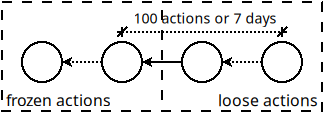
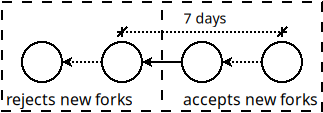
...

Changed region(s): [[0.0, 0.823, 0.4334, 0.9823], [0.5573, 0.823, 0.9907, 0.9558], [0.4025, 0.1062, 0.8669, 0.2389]]

diff --git a/main.tex b/main.tex
@@ -167,9 +167,9 @@ Bitcoin's double-spending).
 As a main limitation, since partitions are unbounded, forums are subject to
 \emph{long-range attacks}, similarly to \emph{proof-of-stake}
 systems~\cite{pos.weak}.
-As a countermeasure, branches older than a threshold are rejected by the
-network (100 actions or 7 days), while newer malicious branches may require
-manual intervention, but of only a few honest members.
+As a countermeasure, branches older than a threshold (7 days) are rejected by
+the network, while newer malicious branches may require manual intervention,
+but of only a few honest members.
 
 Regarding performance, forum graphs are ever-growing data structures that carry
 considerable metadata overhead.
@@ -937,14 +937,14 @@ Next, we discuss the threats and countermeasures under unbounded partitions:
     how an isolated branch mints \reps unchecked.
 \item [\S\ref{sec.design.partitions.hardforks}]
     Hard Forks:
-    how a settling window bounds the damage.
+    how a fork-age limit bounds the damage.
 \end{description}
 
 \subsubsection{Reputation Farming}
 \label{sec.design.partitions.farming}
 
 Consider a malicious scenario in which member $c$ in Figure~\ref{fig.reps}.A
-intentionally disconnects from the network for weeks to cultivate fake
+intentionally disconnects from the network for days to cultivate fake
 identities $x$ and $y$ that accumulate \reps from junk posts (\R{1.b}).
 %
 When merging, these fake members would become legitimate and take over the
@@ -1009,34 +1009,34 @@ local forum.
 \centering
 \includegraphics[width=0.3\textwidth]{hard.png}
 \caption{
-    Settled local branch with frozen actions.
+    Settled local branch rejecting forks.
 }
 \label{fig.hard}
 \end{figure}
 
-Therefore, as a measure against malicious members with strong past reputation,
-\FC protects settled local branches from unexpected consensus reorderings,
-which corresponds to checkpoints in proof-of-stake~\cite{pos.weak}.
+Therefore, \FC protects settled local branches from outdated actions, which
+corresponds to checkpoints in proof-of-stake~\cite{pos.weak}.
 %
-As Figure~\ref{fig.hard} illustrates, actions older than the most recent 100
-actions or 7 days are frozen and cannot be reordered.
-If consensus would reorder them, the merge is refused and the two peers become
-incompatible, which is analogous to a hard fork in Bitcoin.
-In contrast, peers that remain active and synchronize over time evolve together
-with a stable order.
+As Figure~\ref{fig.hard} illustrates, \FC rejects any incoming branch whose
+fork point is older than 7 days in chain time (\S\ref{sec.design.poa}), whether
+it would win or lose consensus.
+Since chain time cannot be forged or accelerated, peers holding the same DAG
+reach the same verdict.
+%
+Peers that remain active and synchronize over time evolve together with a
+stable DAG, otherwise they become incompatible similarly to hard forks in
+Bitcoin.
+A member that stays offline for longer must discard its local branch and
+repost its actions.
 
 In summary, the consensus rules to merge a local branch \code{i} with a remote
 branch \code{j} are as follows:
 \begin{itemize}
-    \item \code{i} wins:
-        \code{i} is first, \code{j} is second
-        (same as \S\ref{sec.design.consensus}).
-    \item \code{j} wins and \code{i} is unstable:
-        \code{j} is first, \code{i} is second
-        (same as \S\ref{sec.design.consensus}).
-    \item \code{j} wins and \code{i} is stable:
-        \code{i} is first, \code{j} is rejected
-        (new hard fork rule).
+    \item fork point within 7 days:
+        consensus applies as in \S\ref{sec.design.consensus}.
+    \item fork point older than 7 days:
+        \code{j} is rejected, regardless of \code{i} or \code{j} winning
+        (hard fork rule).
 \end{itemize}
 
 To conclude, since consensus rests on subjective ratings, forks are legitimate

diff --git a/.claude/plans/260905-review.md b/.claude/plans/260905-review.md
@@ -11,7 +11,8 @@
     - every edit gets `% TODO: <pass>.<item>.<letter>` in tex/bib
     - user reviews and rewrites; check their version, no compile
 - last state (2026-09-08, 17h): all committed (55e20f3); working
-  tree clean; next item is 2.9+2.13 (see "Next steps")
+  next item is 2.10 (see "Next steps"); 2.9/2.13 applied, vcs plan
+  260909-forkage.md pending implementation
 - today's commits (9e496c1..d8655f5): intro rewrite (4 contribs,
   minor contribs and Sybil limitation dropped, Wiki/CRDT outline
   commented), SZT comments removed, Git paragraphs merged
@@ -85,27 +86,18 @@
 
 ## Next steps (in order)
 
-1. 2.9 + 2.13 together (recommended + critical)
-    - fact: settle window counts ALL local actions, received included
-      (sync.lua hardfork(): window = last 100 of `our` order)
-    - attack: 100+ attacker actions freeze the farmed branch on any
-      honest peer that merged it; later honest refutation (3.7.1)
-      is refused -> honest peers split
-    - discuss: count only actions by members with reps in the common
-      history? or reputation-weighted window? or only 7-day rule?
-    - decide, then: paper 3.7.2 text + vcs plan if impl changes
-2. 2.10 merge semantics: do posts merge all heads? (Listing 4 shows
+1. 2.10 merge semantics: do posts merge all heads? (Listing 4 shows
    two heads; Table 1 says like = commit+merge). Check
    vcs/src/freechains/chain/post.lua; state rule in Section 2
-3. 2.11 general fork case (nested, 3+ branches): one sentence in 3.6
+2. 2.11 general fork case (nested, 3+ branches): one sentence in 3.6
    pointing to pairwise merge-base in consensus.lua `winner(a,b)`
-4. 2.12 double-spend example: say tie-breaker decides (both sets
+3. 2.12 double-spend example: say tie-breaker decides (both sets
    empty); Carol at 0 reps locked out, intended?
-5. 2.14 pay-to-revoke: revoke min 1000 vs Table 3 4.a 500; 4.c not
+4. 2.14 pay-to-revoke: revoke min 1000 vs Table 3 4.a 500; 4.c not
    enforced; revoke now also cancels emission (260907-revoke.md)
-6. 2.15 Git SHA-1: one sentence
-7. 2.16 missing sections: revocation first (headline contribution)
-8. Pass 3 (new ideas), Pass 4 (shrink), then TODO.md item: regenerate
+5. 2.15 Git SHA-1: one sentence
+6. 2.16 missing sections: revocation first (headline contribution)
+7. Pass 3 (new ideas), Pass 4 (shrink), then TODO.md item: regenerate
    Table 3 into vcs/doc/reps.md
 
 ## Remaining (numbering as shown to user)
@@ -123,10 +115,15 @@
     - 2.8.a 3.3: chain time paragraph
     - 2.8.b 2: timestamps constrained for time-based rules
     - old disabled time section can stay disabled
-- [ ] 2.9 (recommended): "settled local branches": received or
-      authored only?
-    - received: enables freeze-by-flood
-    - authored only: lurkers never freeze
+- [x] 2.9 + 2.13 (critical): freeze-by-flood
+    - rule changed: reject any branch whose fork point is older than
+      7 days in chain time, win or lose; 100-action criterion dropped
+    - vcs plan: vcs/.claude/plans/260909-forkage.md (not implemented)
+    - 2.13.a intro countermeasure; 2.13.b roadmap; 2.13.c 3.7.1 "days"
+    - 2.13.d 3.7.2 paragraph; 2.13.e two-case summary
+    - 2.13.f imgs/hard.dia label "7 days", png re-exported
+    - discussed: local-arrival freezing rejected (k gap exploitable);
+      revoke remains as post-by-post remedy after the window
 - [ ] 2.10 (recommended): merge semantics; do posts merge all heads?
     - Listing 4 leaves two heads
     - Table 1: post=commit, like=commit+merge
@@ -136,10 +133,6 @@
 - [ ] 2.12 (light): double-spend example decided by hash tie-breaker
     - both exclusive sets are empty (only Carol)
     - Carol ends at 0 reps, permanently locked out
-- [ ] 2.13 (critical): freeze-by-flood
-    - 100+ attacker actions freeze farmed branch on honest peers
-    - honest refutation (3.7.1) then refused; honest peers split
-    - idea: count only actions by members with common-history reps
 - [ ] 2.14 (recommended): pay-to-revoke censorship
     - impl: revoke min is 1000, Table 3 rule 4.a says 500
     - impl: rule 4.c (128 KB) commented out, not enforced
